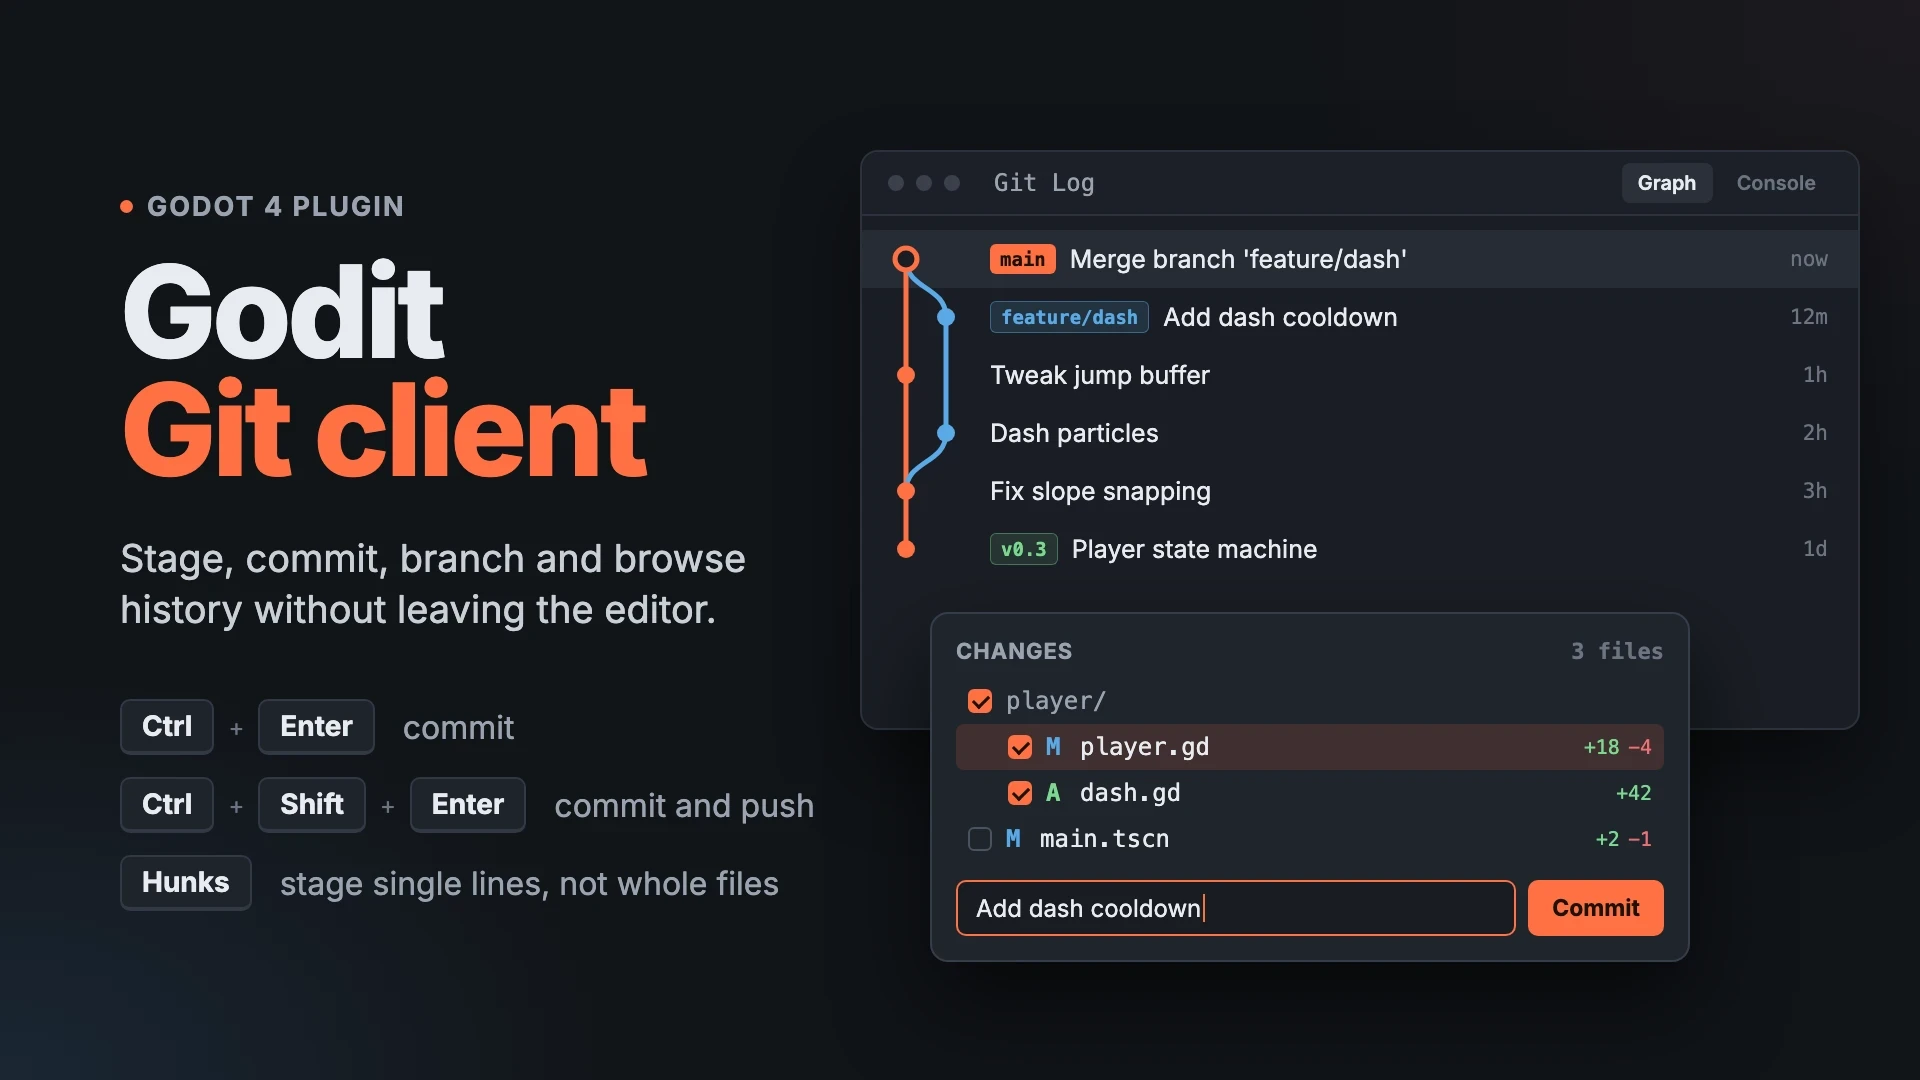
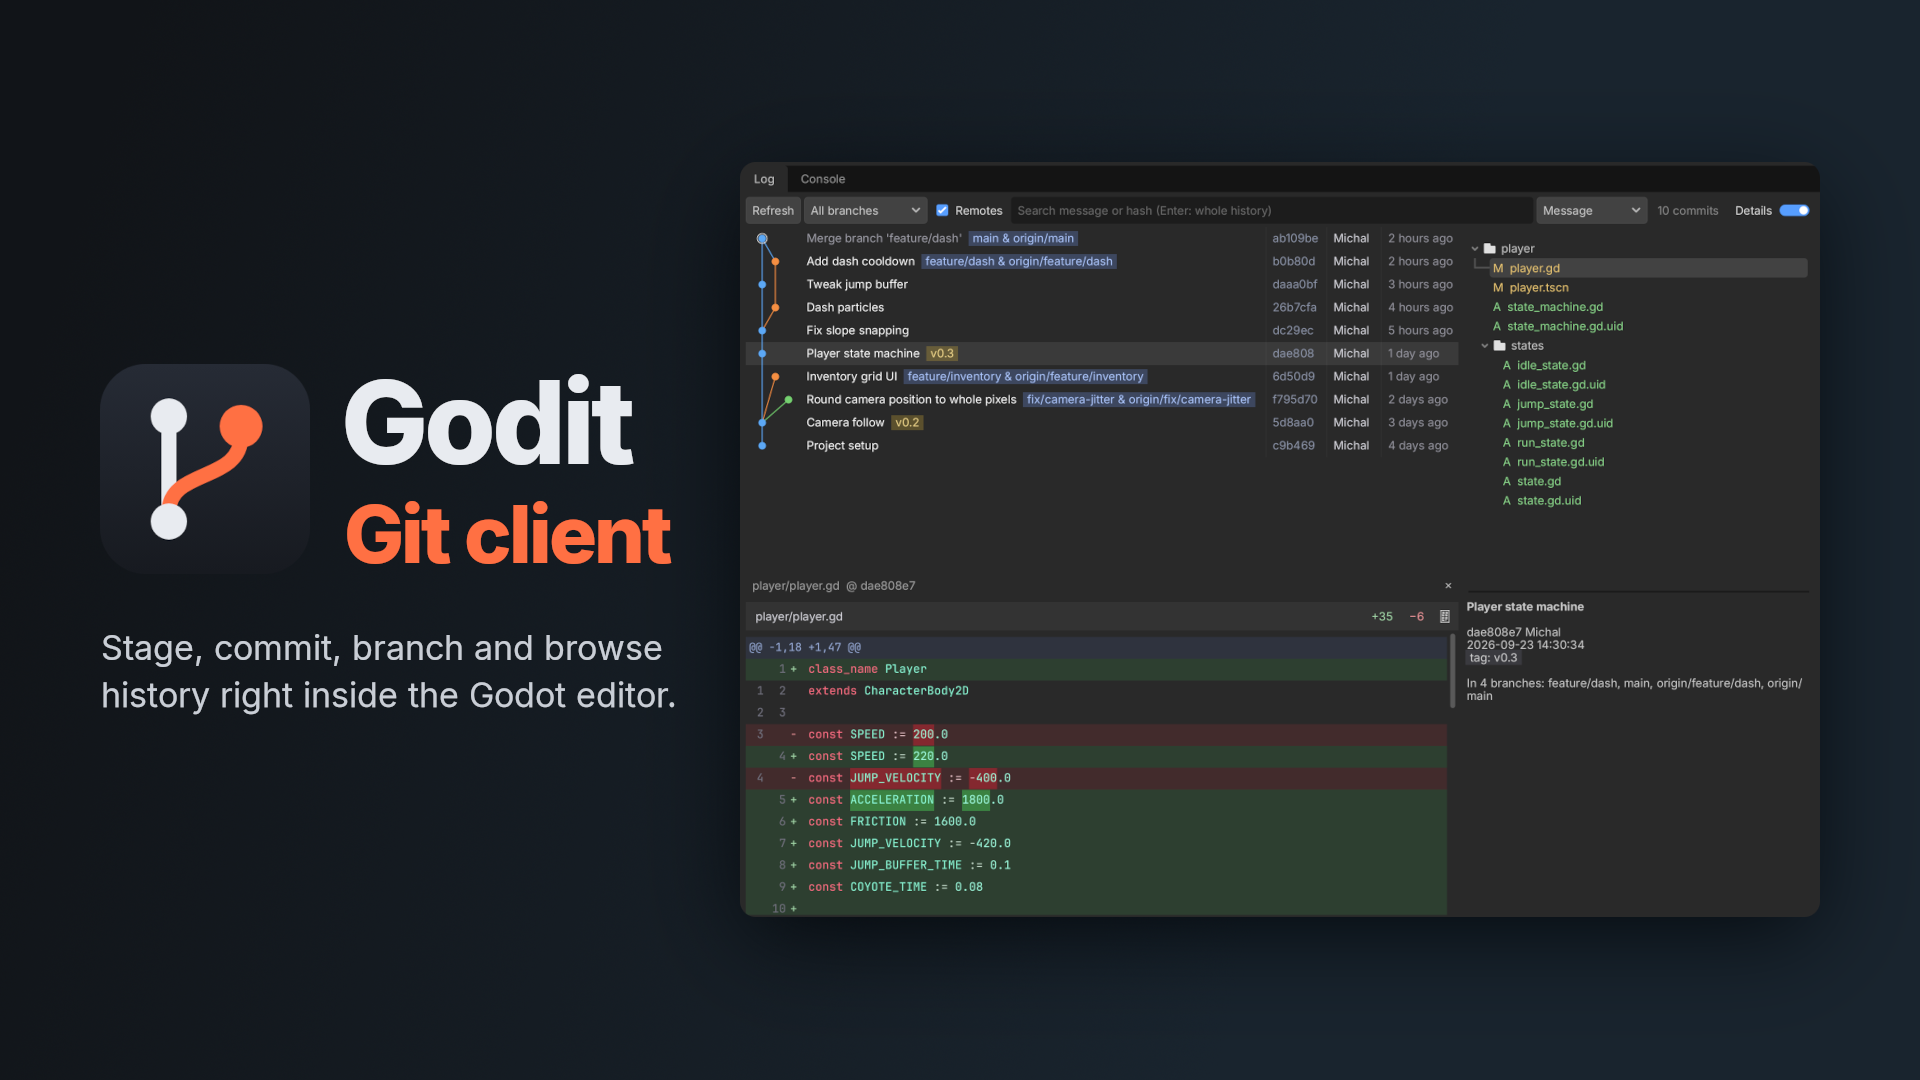
Shorten the README and update the thumbnail

Changed region(s): [[0.0312, 0.1528, 0.9688, 0.9778], [0.0625, 0.1833, 0.2188, 0.2139]]

diff --git a/README.md b/README.md
@@ -1,77 +1,42 @@
 # Godit
 
-A git client inside the Godot editor. See what changed, stage and commit, switch branches and browse the history as a commit graph, without leaving the editor.
+A git client inside the Godot editor. Stage, commit, switch branches and browse history without leaving the editor.
 
 ![Godit](media/thumbnail.webp)
 
 ## Features
 
-- **Changes panel**: changed files as a folder tree. Tick a checkbox to stage a file, a folder or a whole group.
-- **Partial staging**: stage, unstage or revert a single hunk or selected lines.
-- **Diff view**: unified or side-by-side, with word-level highlights, script editor syntax colors and before/after image previews.
-- **Changelists and shelving**: group changes and commit or stash them separately. New changes and new files land in the active changelist already ticked; drag files between changelists, and each changelist keeps its own draft commit message.
-- **Commit, Amend, Commit and Push.**
-- **Branches**: checkout, create, rename, delete, merge and rebase, with ahead/behind counts. Remotes, tags and stashes are in the same panel.
-- **Fetch, pull and push** run in the background with progress and Cancel. Common failures come with an explanation and a suggested fix.
-- **Conflict resolver**: side-by-side Ours / Theirs / Base. Continue, Skip or Abort merges, rebases and cherry-picks.
-- **Git Log**: commit graph with branch and tag badges. Search by message or code, see commit details and per-file diffs.
-- **History editing**: cherry-pick, revert, reset, reword, fixup, squash, drop and undo the last commit.
-- **Script editor**: changed lines in the gutter, inline preview with Rollback, optional blame column and a Git right-click submenu.
-- **Git Console**: every command the plugin runs, plus a prompt for your own.
-
-Godit uses your system `git`, so there is nothing native to build. It works on Windows, macOS and Linux.
-
-## Requirements
-
-- Godot 4.4 or newer
-- `git` installed and on `PATH` (check with `git --version` in a terminal)
-- The Godot project inside a git repository (the repo root can be above the project folder)
+- **Changes panel**: stage files, folders or single lines with a checkbox, then commit or push.
+- **Changelists**: group changes and commit or shelve them separately.
+- **Diff view**: side-by-side or unified, with syntax colors and image previews.
+- **Branches**: switch, merge and rebase. Fetch, pull and push run in the background.
+- **Git Log**: commit graph with search, cherry-pick and history editing.
+- **Conflict resolver**: pick Ours, Theirs or both, side by side.
+- **Script editor**: changed lines in the gutter with one-click rollback, plus optional blame.
 
 ## Install
 
-1. Copy `addons/godit/` into your project's `addons/` folder, or install Godit from the Asset Library.
+1. Install Godit from the Asset Library, or copy `addons/godit/` into your project's `addons/` folder.
 2. Enable **Godit** in Project Settings > Plugins.
 
-After that you will see:
+You need Godot 4.4+, `git` on your `PATH`, and a project inside a git repository.
 
-- a **Git** dock on the left with the Changes and Branches tabs
-- a **Git Log** tab in the bottom panel
-- change markers in the script editor gutter
-
-## Remote access (push, pull, fetch)
-
-Godit never shows password prompts, because the editor has no terminal to type into. Git has to authenticate on its own:
-
-- **HTTPS**: set up a credential helper (Git Credential Manager on Windows and macOS, `git config --global credential.helper store` on Linux, or a GitHub CLI login with `gh auth login`).
-- **SSH**: load your key into `ssh-agent` and connect to the host once from a terminal so its key is accepted.
-
-If `git push` works in a terminal without asking for anything, it works in Godit too.
+For push and pull, git has to log in without asking: use a credential helper for HTTPS or `ssh-agent` for SSH. If `git push` works in a terminal without a prompt, it works in Godit.
 
 ## Usage
 
-- **Commit**: tick the files in Changes, type a message and press `Ctrl+Enter` (`Cmd+Enter` on macOS). `Ctrl+Shift+Enter` commits and pushes.
-- **Changelists**: double-click a changelist to make it active, drag files or folders onto another one, or select several files and right-click. The ⋮ menu next to Stash turns off auto-staging and auto-adding and edits the masks for files that should never be auto-added (for example `*.import`).
-- **Stage part of a file**: open the file's diff, then stage a hunk or select lines and stage those.
-- **Right-click** a file, branch or commit for everything else: revert, ignore, show history, cherry-pick, reset and more.
-- **In the script editor**, click a gutter marker to preview the change and roll it back.
-- **Switch branches** in the Branches tab. The sync bar at the top shows what's waiting to be pulled or pushed.
+- **Commit**: tick files in the **Git** dock, type a message and press `Ctrl/Cmd+Enter`. Add `Shift` to also push.
+- **Stage part of a file**: open its diff and stage a hunk or selected lines.
+- **Changelists**: double-click one to make it active and drag files between them.
+- **Branches**: switch, merge and pull in the Branches tab.
+- **History**: open **Git Log** in the bottom panel.
+- **Everything else**: right-click a file, branch or commit.
 
 ## Settings
 
-Project > Tools > Godit:
+Project > Tools > Godit: auto-reload changed files, auto-save scripts, dock position, background fetch, blame column, and whether to confirm keyboard commits.
 
-| Option | Default | What it does |
-| --- | --- | --- |
-| Auto-reload files changed externally | on | Reload scripts changed by git (checkout, pull, revert) without asking |
-| Auto-save scripts every 3s | off | Keeps the Changes panel in sync with what you type |
-| Dock Changes/Branches at bottom | off | Moves the Git dock into the bottom panel |
-| Fetch remotes in the background every 10 min | off | Keeps ahead/behind counts current |
-| Show blame in the script editor | off | Author and age column next to each line |
-| Confirm Ctrl/Cmd+Enter commits | on | Ask before committing from the keyboard. "Don't ask again" in the dialog turns it off |
-
-Auto-staging, auto-adding new files and the auto-add ignore masks are in the ⋮ menu on the Changes panel (all on by default).
-
-The auto-reload and auto-save options change the matching Godot editor settings. Settings are per user and stored outside the project, in `user://godit_settings.cfg`.
+The ⋮ menu in the Changes panel controls auto-staging, auto-adding new files and the masks for files to skip (for example `*.import`).
 
 ## License
 
